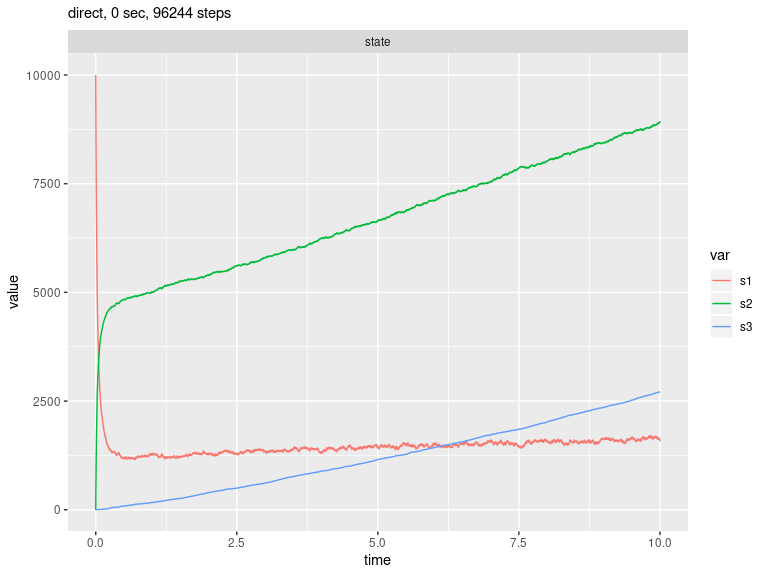
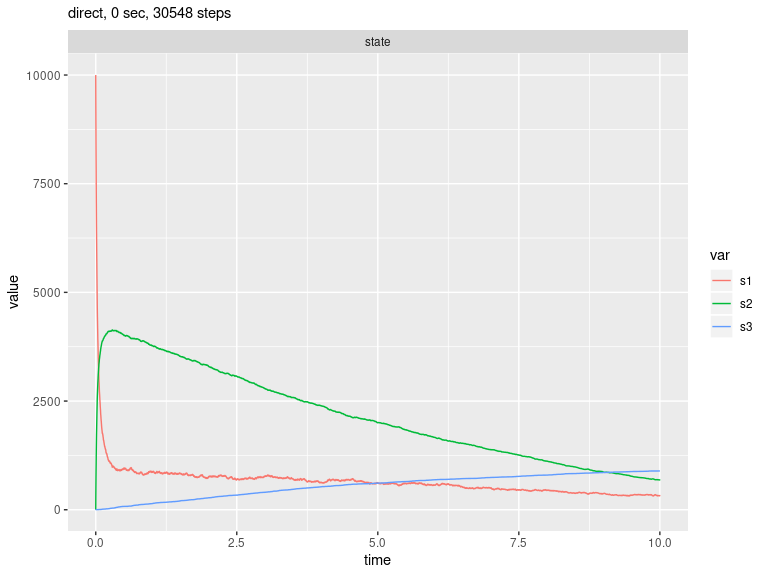
fix decaying dimer typo

diff --git a/vignettes/decaying_dimer.md b/vignettes/decaying_dimer.md
@@ -33,7 +33,7 @@ Define reactions
 
 ``` r
 reactions <- list(
-  reaction("c1 * s1",        c(s1 = +1)),
+  reaction("c1 * s1",        c(s1 = -1)),
   reaction("c2 * s1 * s1",   c(s1 = -2, s2 = +1)),
   reaction("c3 * s2",        c(s1 = +2, s2 = -1)),
   reaction("c4 * s2",        c(s2 = -1, s3 = +1))
@@ -54,7 +54,9 @@ out <- ssa(
 ssa_plot(out)
 ```
 
-<img src="decaying_dimer_files/figure-gfm/direct-1.png" width="100%" />
+    ## Loading required namespace: ggplot2
+
+![](decaying_dimer_files/figure-gfm/direct-1.png)<!-- -->
 
 Run simulations with the Explict tau-leap method
 
@@ -70,7 +72,7 @@ out <- ssa(
 ssa_plot(out)
 ```
 
-<img src="decaying_dimer_files/figure-gfm/etl-1.png" width="100%" />
+![](decaying_dimer_files/figure-gfm/etl-1.png)<!-- -->
 
 Run simulations with the Binomial tau-leap method
 
@@ -86,4 +88,4 @@ out <- ssa(
 ssa_plot(out)
 ```
 
-<img src="decaying_dimer_files/figure-gfm/btl-1.png" width="100%" />
+![](decaying_dimer_files/figure-gfm/btl-1.png)<!-- -->
